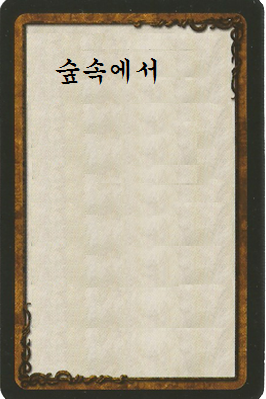
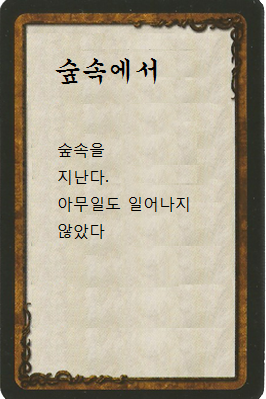
숲 이벤트 추가

Changed region(s): [[0.2105, 0.4211, 0.4511, 0.6015], [0.4812, 0.4812, 0.7218, 0.5414], [0.2105, 0.3609, 0.391, 0.391]]

diff --git a/map.py b/map.py
@@ -11,10 +11,10 @@ import gameover
 import mapclass
 from Tileclass import Tile as Tile
 from Tileclass import Move as Move
+from cardclass import Card as Card
 
 global xpos,ypos
 xpos,ypos=0,0
-
 class Dice():
     def __init__(self):
         self.image=load_image('png\\DICE-4.png')
@@ -141,24 +141,6 @@ class Chracter():
          global turntype
          self.image.clip_draw(0,0,89,119,Chracter.state[0],Chracter.state[1])
 
-class Card():
-    image=None
-    result=None
-    def __init__(self):
-        if self.image==None:
-            self.image=[load_image('png\\card1.png'),
-                        load_image('png\\card2.png'),
-                        load_image('png\\card3.png'),
-                        load_image('png\\card4.png'),
-                        load_image('png\\card5.png'),
-                        load_image('png\\card6.png'),
-                        load_image('png\\card7.png')]
-        if self.result==None:
-            self.result=[load_image('png\\result.png'),
-                         load_image('png\\result 2.png'),
-                         load_image('png\\result 3.bmp')]
-
-
 
 def changemap():
     global turntype
@@ -169,7 +151,7 @@ def changemap():
 
 
 def handle_events():
-    global running
+    global running,chracter
     global xpos,ypos
     global map
     global move
@@ -196,14 +178,14 @@ def handle_events():
                 game_framework.quit()
             elif (event.type,event.key)==(SDL_KEYDOWN,SDLK_SPACE):
                 if turntype==1 and Chracter.type==2:
-                 changemap()
-                elif turntype==1 and Chracter.type==1:
+                    changemap()
+                elif turntype==1 and (Chracter.type==1 or Chracter.type== 8):
                     statonoff=stat.onoff
                     cardnumber=random.randint(0,100);
                     turntype=2
-                elif turntype==2 and Chracter.type==1:
-                    pass
-                elif turntype==3 and Chracter.type==1:
+                elif turntype==2 and (Chracter.type== 1 or Chracter.type==8):
+                    turntype=2
+                elif turntype==3 and ( chracter.type==8 or chracter.type==1 ):
                     turntype=4
                 else :
                     if turntype!=0:
@@ -219,7 +201,7 @@ def handle_events():
             elif(event.type,event.key)==(SDL_KEYDOWN,SDLK_i) and turntype!=2:
                  stat.onoff= not stat.onoff
             elif(event.type,event.key)==(SDL_KEYDOWN,SDLK_q):
-                 print(chracter.hp)
+                 print(turntype, chracter.type)
             if (event.type,event.button)==(SDL_MOUSEBUTTONDOWN,SDL_BUTTON_LEFT):
                      mouse_x,mouse_y=event.x,599-event.y
                      if turntype==2:
@@ -231,24 +213,22 @@ def handle_events():
 def result(num):
     global turntype,turnnumber,chracter
     turnnumber+=1
-    if num>=0 and num<chracter.luk*5:
-        if chracter.hp<chracter.maxhp:
-            turntype=0
-            chracter.hp+=1
-            return 1
-
-    elif num>=chracter.luk*5 and num<chracter.luk*5+10:
-        turntype=0
-        chracter.hp-=1
-        return 2
-    else :
-        turntype=0
-        return 0
-
-
-
-
-
+    if chracter.type==road:
+        if num>=0 and num<chracter.luk*5:
+            if chracter.hp<chracter.maxhp:
+                chracter.hp+=1
+        elif num>=chracter.luk*5 and num<chracter.luk*5+10:
+            chracter.hp-=1
+        else :
+             pass
+    elif chracter.type==wood:
+        if num>=0 and num<chracter.luk*5:
+                chracter.gold+=1
+        elif num>=chracter.luk*5 and num<chracter.luk*5+10:
+            turnnumber+=1
+            delay(0.1)
+        else :
+            pass
 
 def click_card():
     global mouse_x,mouse_y
@@ -293,16 +273,23 @@ def drawcard(num):
         card.image[cardnumber%7].clip_draw(0,0,200,300,150,350) #draw_rectangle(50,200,250,500)
         card.image[(cardnumber+1)%7].clip_draw(0,0,200,300,400,350)#draw_rectangle(300,200,500,500)
         card.image[(cardnumber+2)%7].clip_draw(0,0,200,300,650,350)#draw_rectangle(550,200,750,500)
-    if turntype==3:
-        if num<80:
-            card.result[0].clip_draw(0,0,266,399,150,350)
-        elif num>=70 and num<90:
-             card.result[1].clip_draw(0,0,266,399,150,350)
-        else :
-             card.result[2].clip_draw(0,0,266,399,150,350)
-
+    elif turntype==3 and chracter.type==1:
+            if num>=0 and num<chracter.luk*5:
+                card.result_road[2].clip_draw(0,0,266,399,150,350)
+            elif num>=chracter.luk*5 and num<chracter.luk*5+10:
+                card.result_road[1].clip_draw(0,0,266,399,150,350)
+            else:
+                card.result_road[0].clip_draw(0,0,266,399,150,350)
+    elif turntype==3 and chracter.type==8:
+            if num>=0 and num<chracter.luk*5:
+                card.result_wood[2].clip_draw(0,0,266,399,150,350)
+            elif num>=chracter.luk*5 and num<chracter.luk*5+10:
+                card.result_wood[0].clip_draw(0,0,266,399,150,350)
+            else:
+                card.result_wood[1].clip_draw(0,0,266,399,150,350)
     if turntype==4:
          result(actionnumber)
+         turntype=0
 
 
 def enter():

diff --git a/cardclass.py b/cardclass.py
@@ -1,0 +1,31 @@
+__author__ = 'kkk'
+
+from pico2d import*
+import game_framework
+import battlemap
+import title
+import map
+import json
+import random
+global dice_num
+global font
+
+class Card():
+    image=None
+    result=None
+    def __init__(self):
+        if self.image==None:
+            self.image=[load_image('png\\card1.png'),
+                        load_image('png\\card2.png'),
+                        load_image('png\\card3.png'),
+                        load_image('png\\card4.png'),
+                        load_image('png\\card5.png'),
+                        load_image('png\\card6.png'),
+                        load_image('png\\card7.png')]
+        if self.result==None:
+            self.result_road=[load_image('png\\result.png'),
+                         load_image('png\\result 2.png'),
+                         load_image('png\\result 3.bmp')]
+            self.result_wood=[load_image('png\\resultwood1.png'),
+                         load_image('png\\resultwood2.png'),
+                         load_image('png\\resultwood3.png')]
